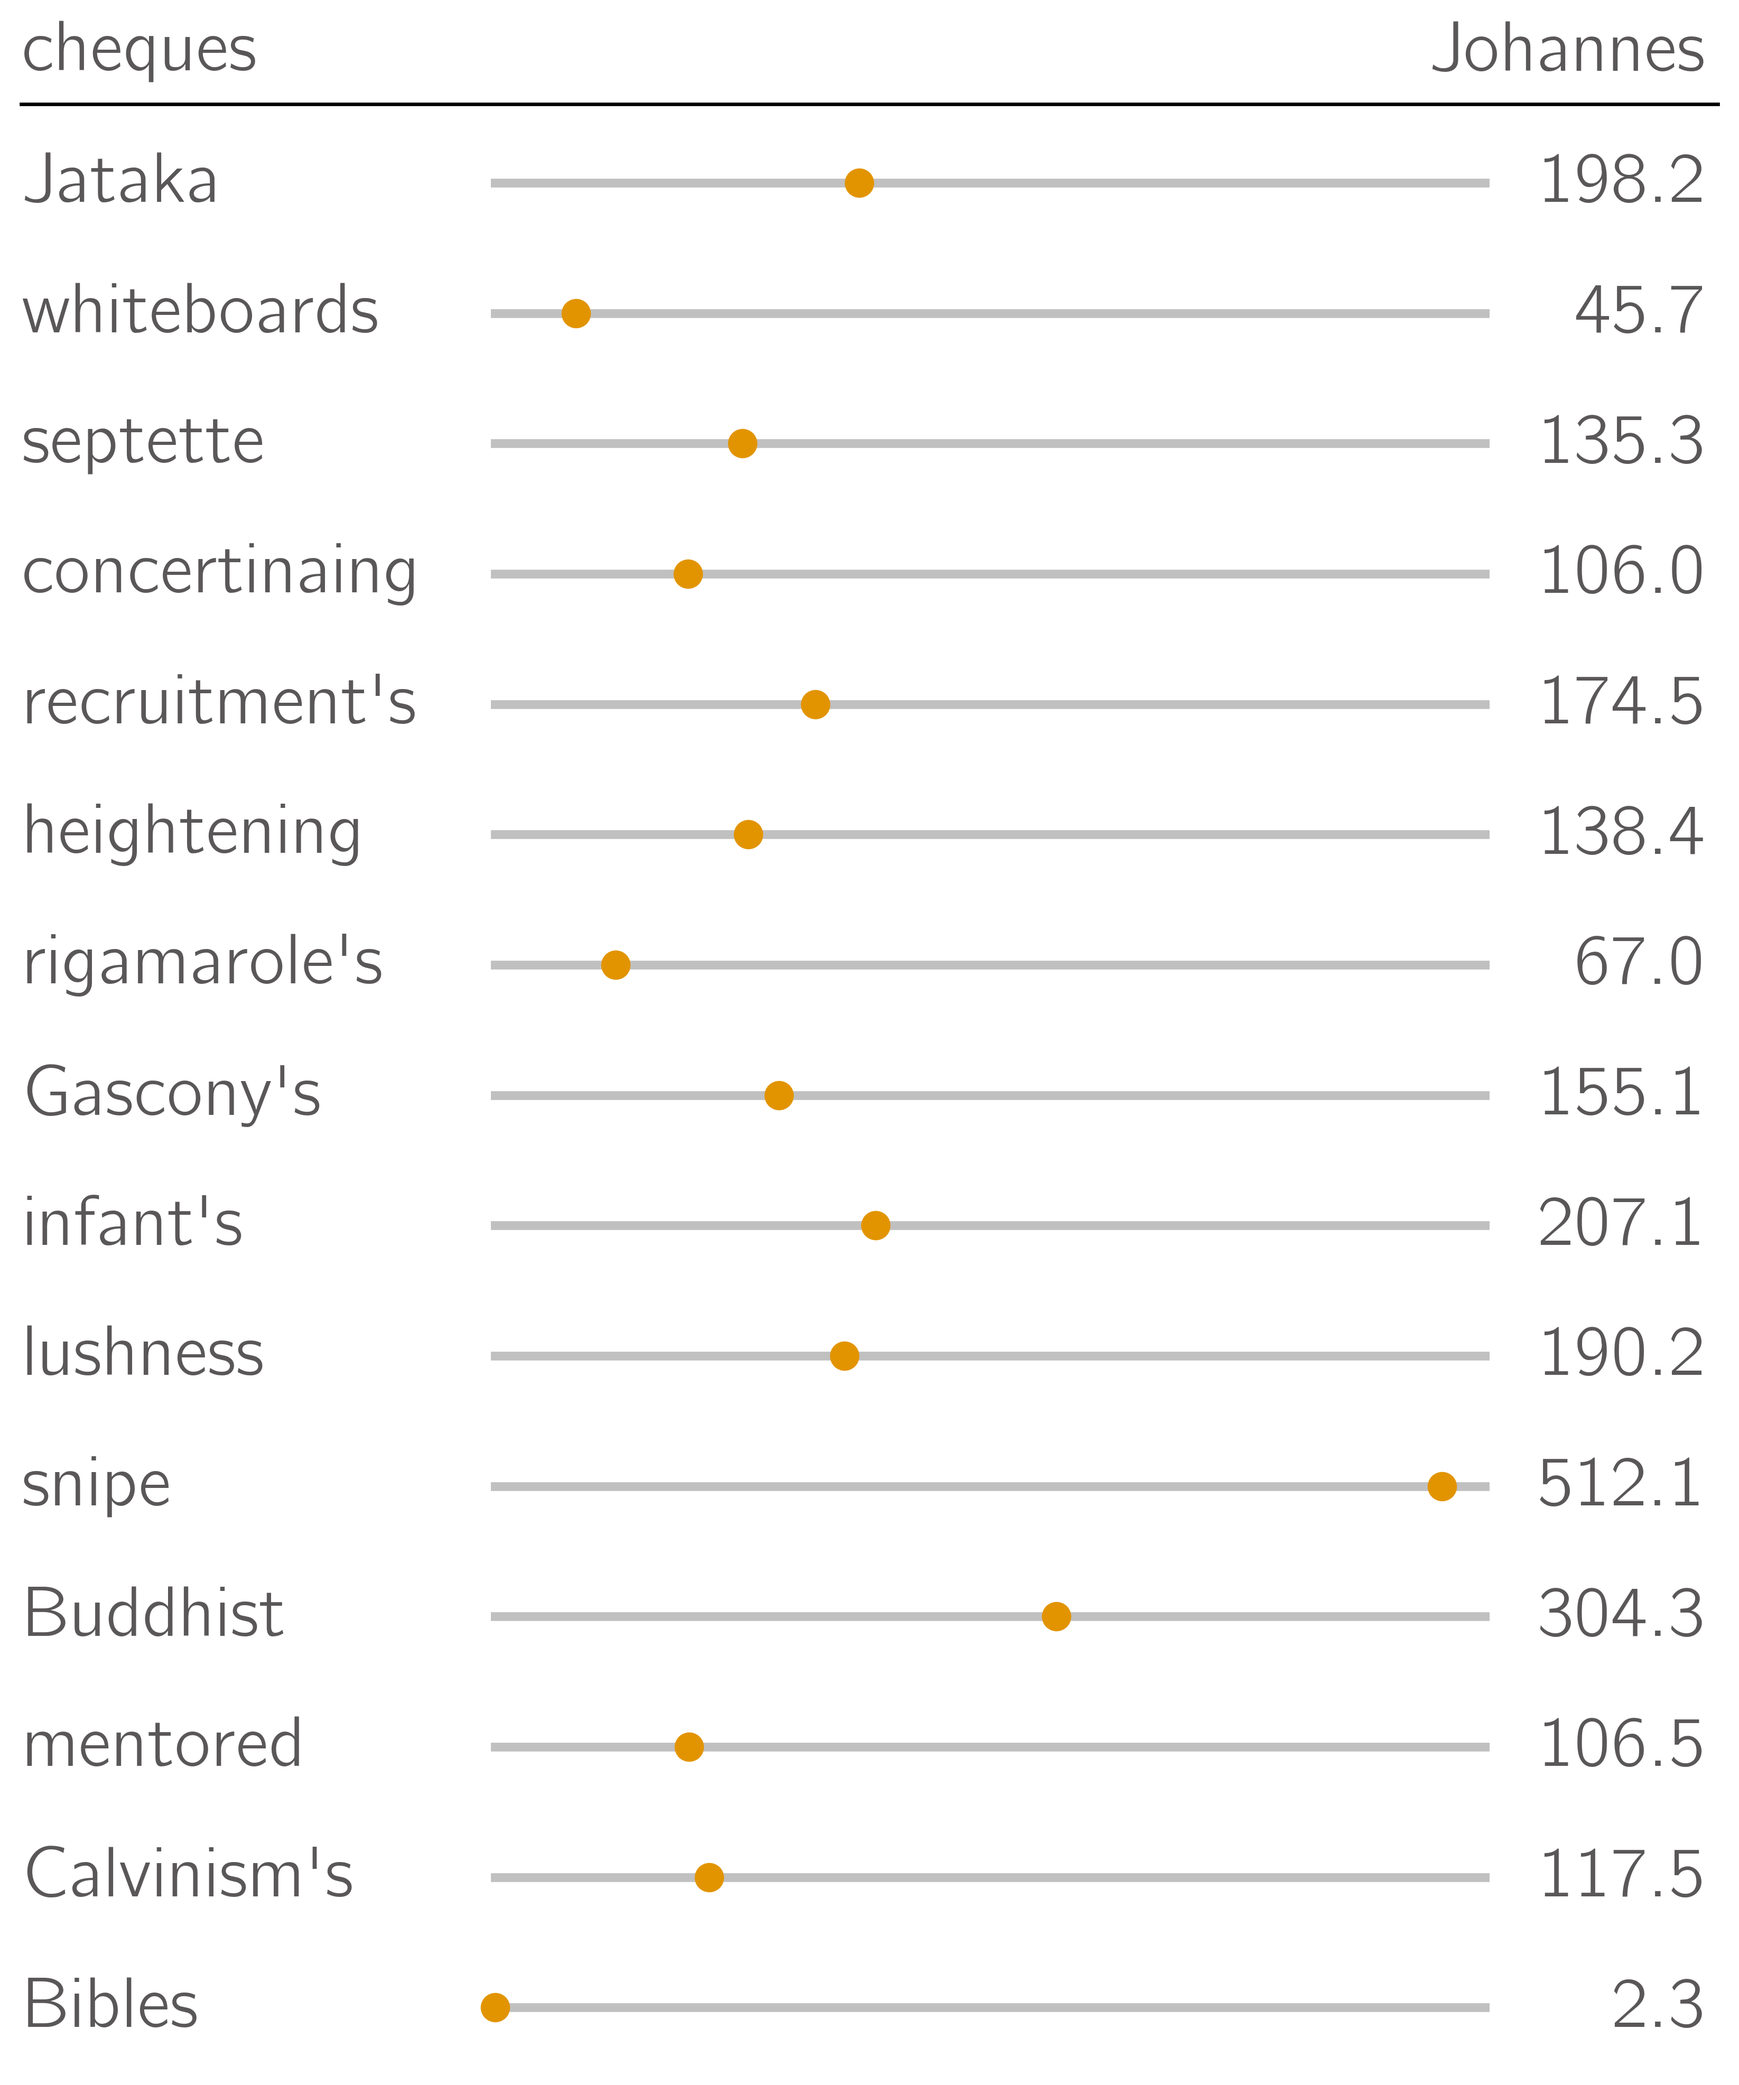
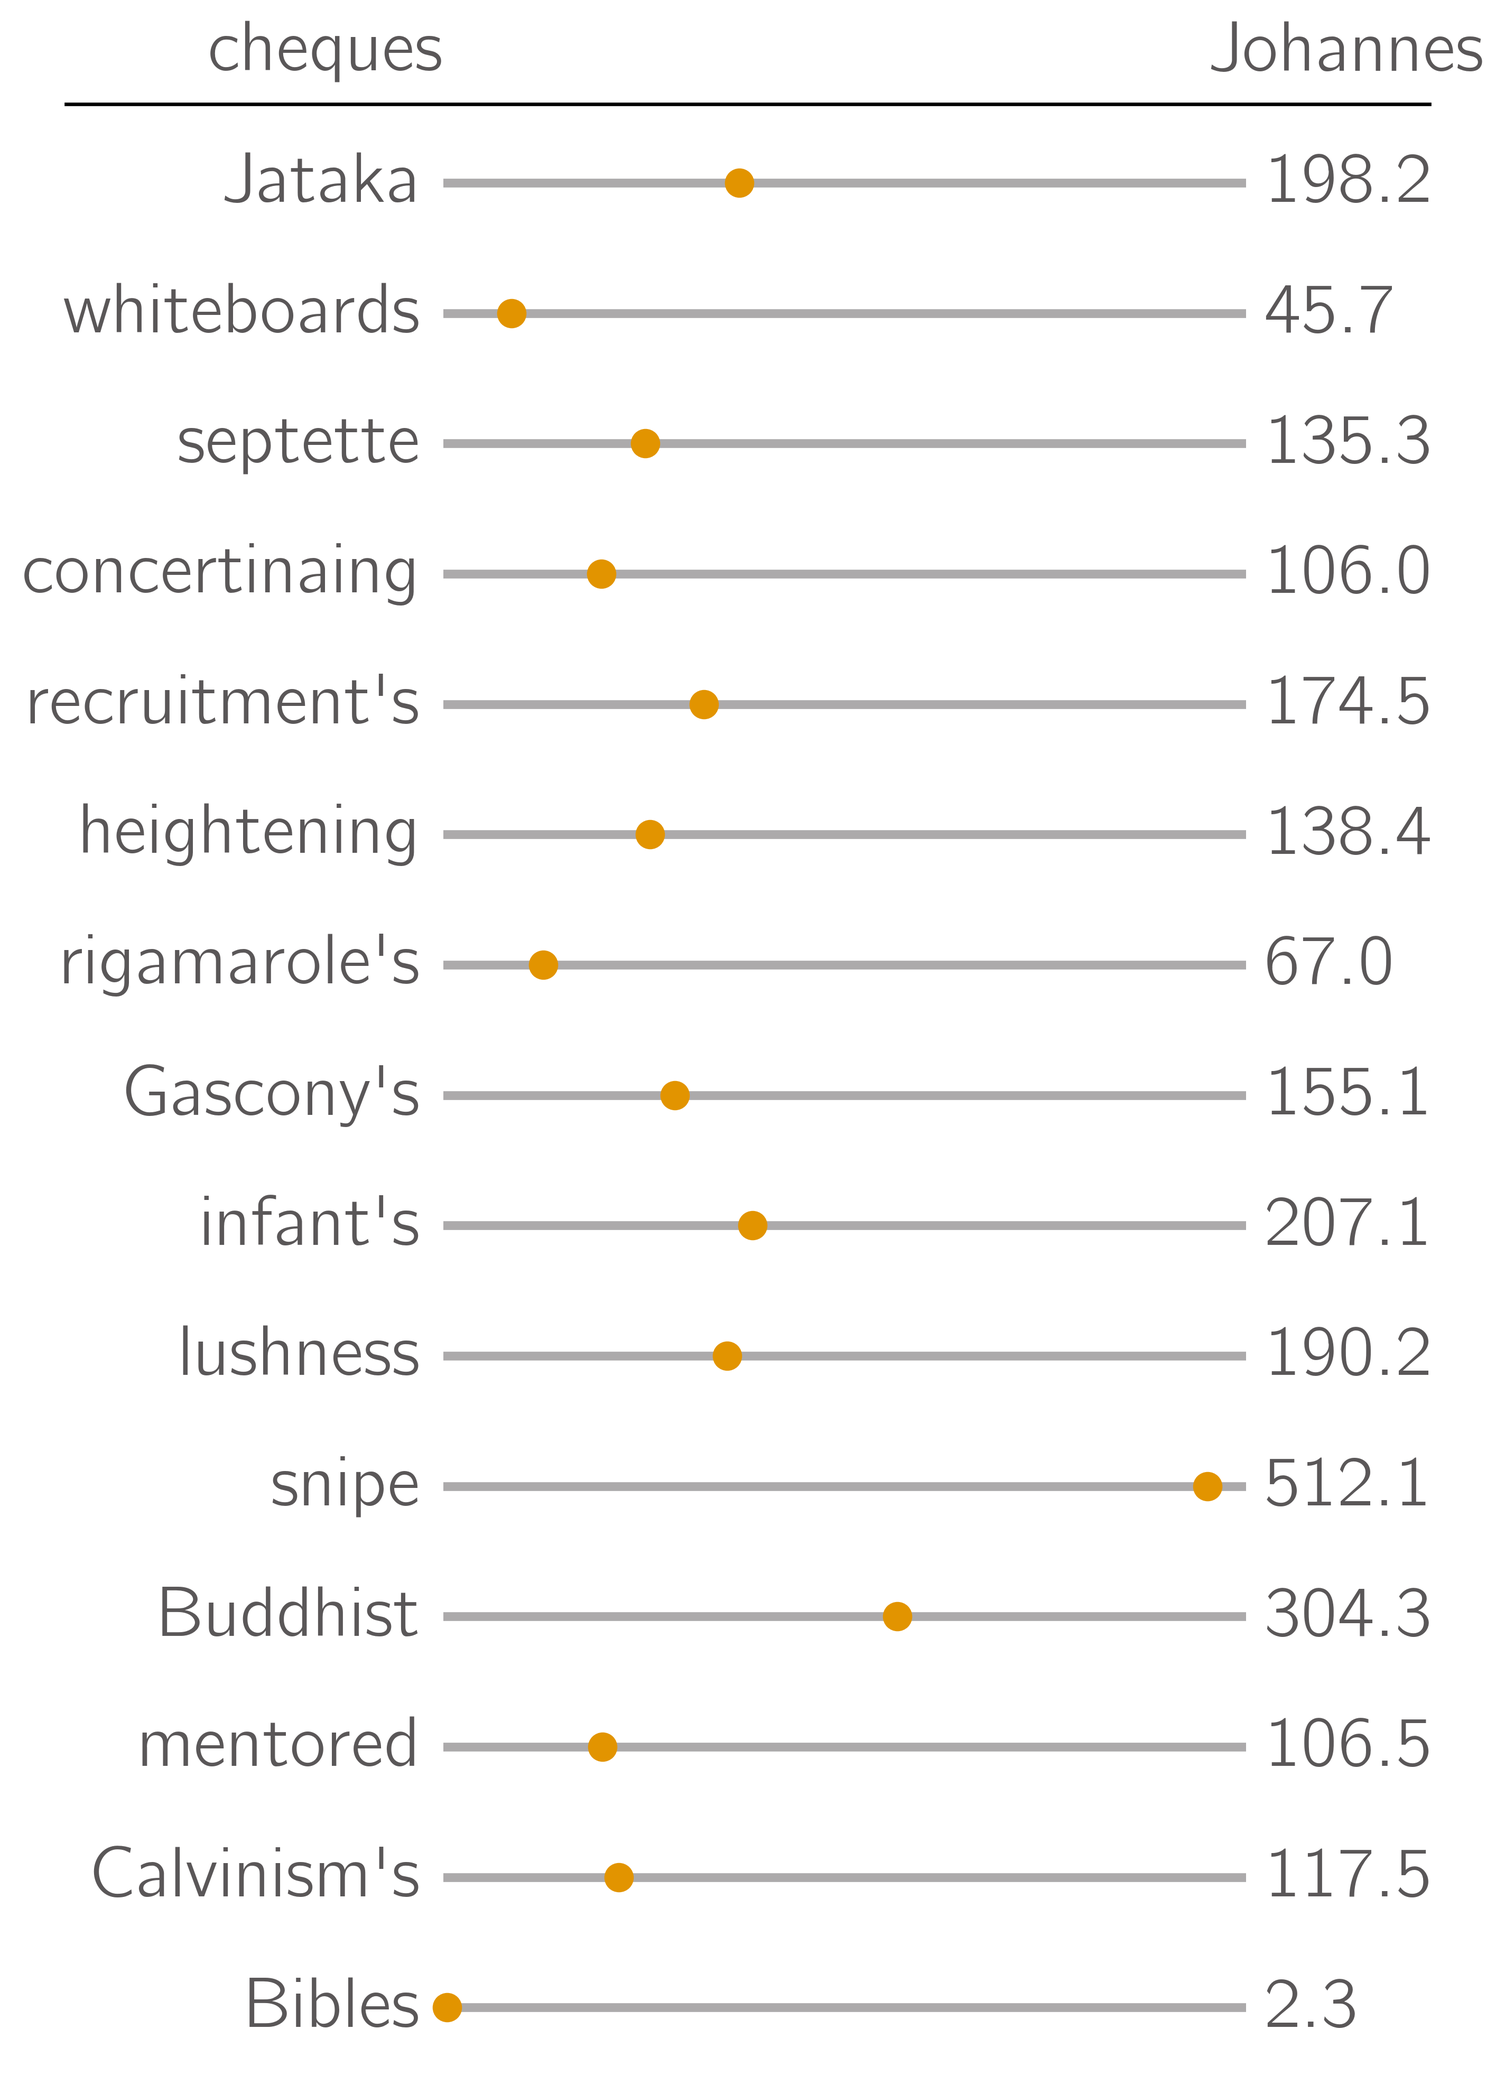
Improve bar chart title alignment

diff --git a/niceplots/utils.py b/niceplots/utils.py
@@ -244,7 +244,6 @@ def horiz_bar(labels, times, header, ts=1, nd=1, size=[5, 0.5], color=None):
     # Playing with these values here can help with label alignment
     left_lim = -ts * l_max * 0.038 * t_max
     right_lim = t_max * 1.11
-    right_text_x = right_lim * 1.15
 
     # Loop over each time and get the max number of digits
     t_max_digits = 0
@@ -287,8 +286,8 @@ def horiz_bar(labels, times, header, ts=1, nd=1, size=[5, 0.5], color=None):
 
         # Create border graphics if this is the top bar line
         if j == 0:
-            ax.text(left_lim, 1.02, header[0], ha="left")
-            ax.text(right_text_x, 1.02, header[1], ha="right")
+            ax.text(0, 1.02, header[0], ha="right")
+            ax.text(t_max, 1.02, header[1], ha="left")
 
             line = Line2D(
                 [left_lim, right_lim + t_max * (0.15 + nd * 0.03)],

diff --git a/examples/plot_bar_chart.py b/examples/plot_bar_chart.py
@@ -24,7 +24,6 @@ try:
     labels = [rw() for i in range(n)]
     times = [random.random() * random.randint(0, 1000) for i in range(n)]
     nd = 1
-    raise FileNotFoundError
 
 except FileNotFoundError:  # noqa: E722 if user is not on a *nix system
     header = ["Method", "Time (sec)"]
@@ -40,5 +39,5 @@ except FileNotFoundError:  # noqa: E722 if user is not on a *nix system
 
 niceplots.horiz_bar(labels, times, header, nd=nd, size=[7, 0.65])
 
-plt.savefig("bar_chart.pdf", bbox_inches="tight", pad_inches=0.25)
-plt.savefig("bar_chart.png", dpi=400, bbox_inches="tight", pad_inches=0.25)
+plt.savefig("bar_chart.pdf", bbox_inches="tight")
+plt.savefig("bar_chart.png", dpi=400, bbox_inches="tight")
